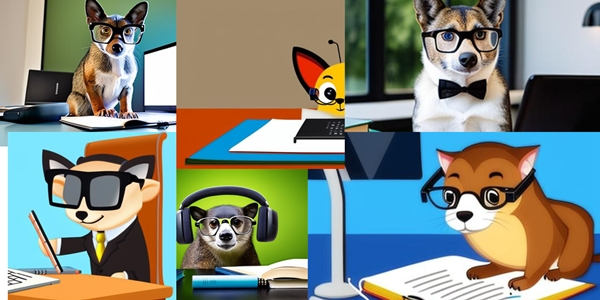
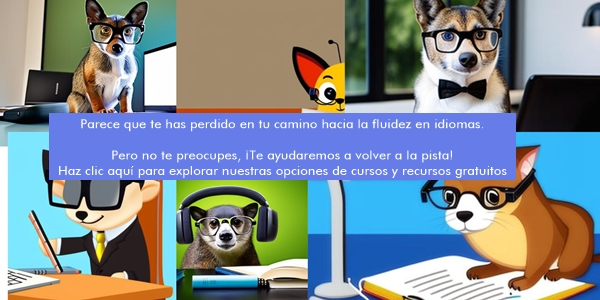
NotFoundPage link en la foto

Changed region(s): [[0.06, 0.36, 0.87, 0.63]]

diff --git a/src/componentes/NotFoundPage/NotFoundPage.jsx b/src/componentes/NotFoundPage/NotFoundPage.jsx
@@ -1,5 +1,6 @@
 import React from 'react';
 import { hydrate } from 'react-dom';
+import { Link } from 'react-router-dom';
 
 const pathImg = require.context('../../assets/img/', true)
 
@@ -8,10 +9,11 @@ const NotFoundPage = () => {
   return (
     <div>
       <h1>404 Error: No se encontró la página</h1>
-      <h2>Parece que te has perdido en tu camino hacia la fluidez en idiomas. Pero no te preocupes, ¡te ayudaremos a volver a la pista!</h2>
-      <img src={pathImg(`./404.jpg`)} alt="Imagen de error 404" />
-      <p>Lo sentimos, parece que la página que estás buscando no existe o ha sido eliminada. Pero no te preocupes, te invitamos a explorar nuestro sitio web para encontrar más recursos y herramientas para mejorar tus habilidades en idiomas.</p>
-      <a link={}>Haz clic aquí para explorar nuestras opciones de cursos y recursos gratuitos</a>
+      <Link to={`/`}>
+        <img src={pathImg(`./404.jpg`)} alt="Imagen de error 404" />
+      </Link>
+      {/* <p>Lo sentimos, parece que la página que estás buscando no existe o ha sido eliminada. Pero no te preocupes, te invitamos a explorar nuestro sitio web para encontrar más recursos y herramientas para mejorar tus habilidades en idiomas.</p>
+      <a>Haz clic aquí para explorar nuestras opciones de cursos y recursos gratuitos</a> */}
     </div>
   );
 };
